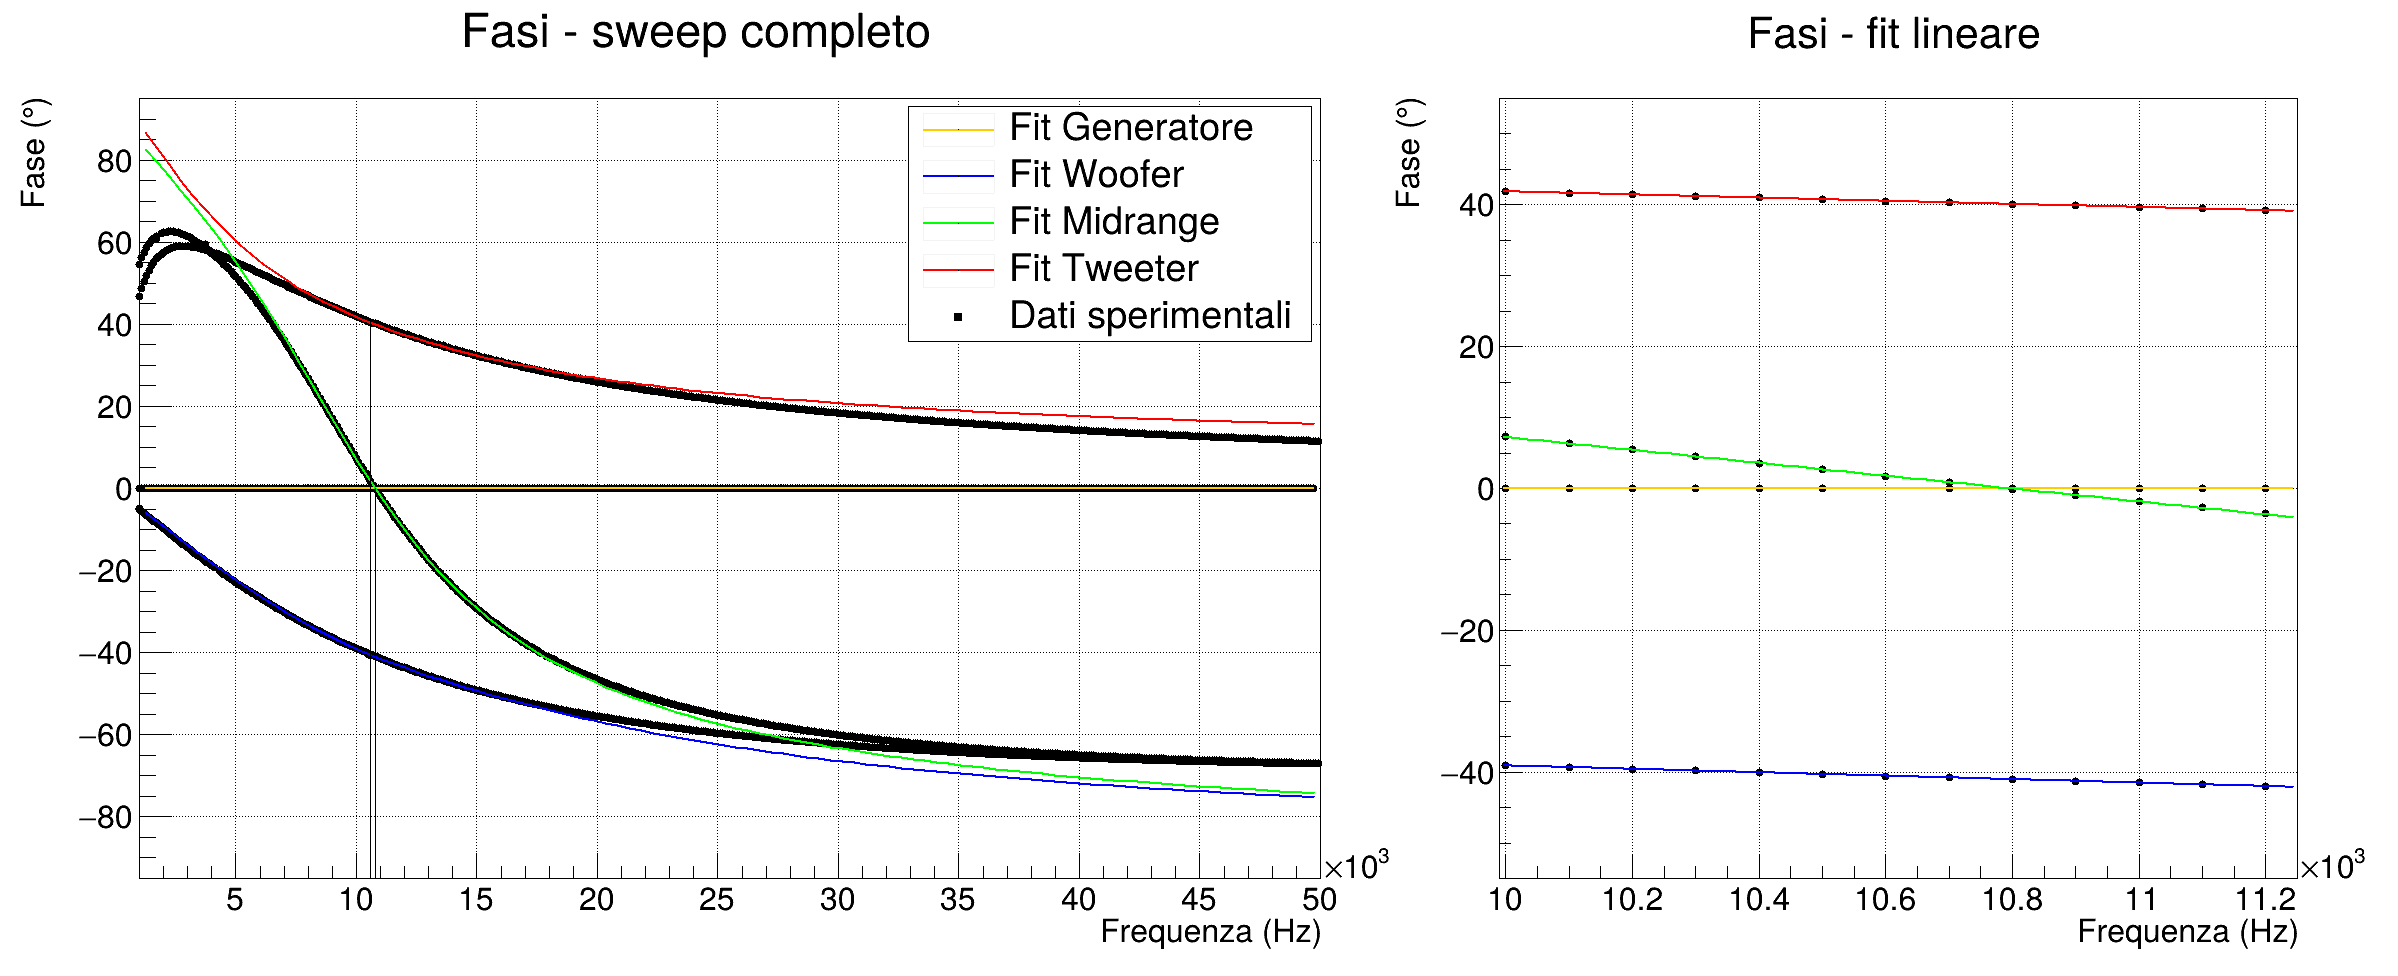
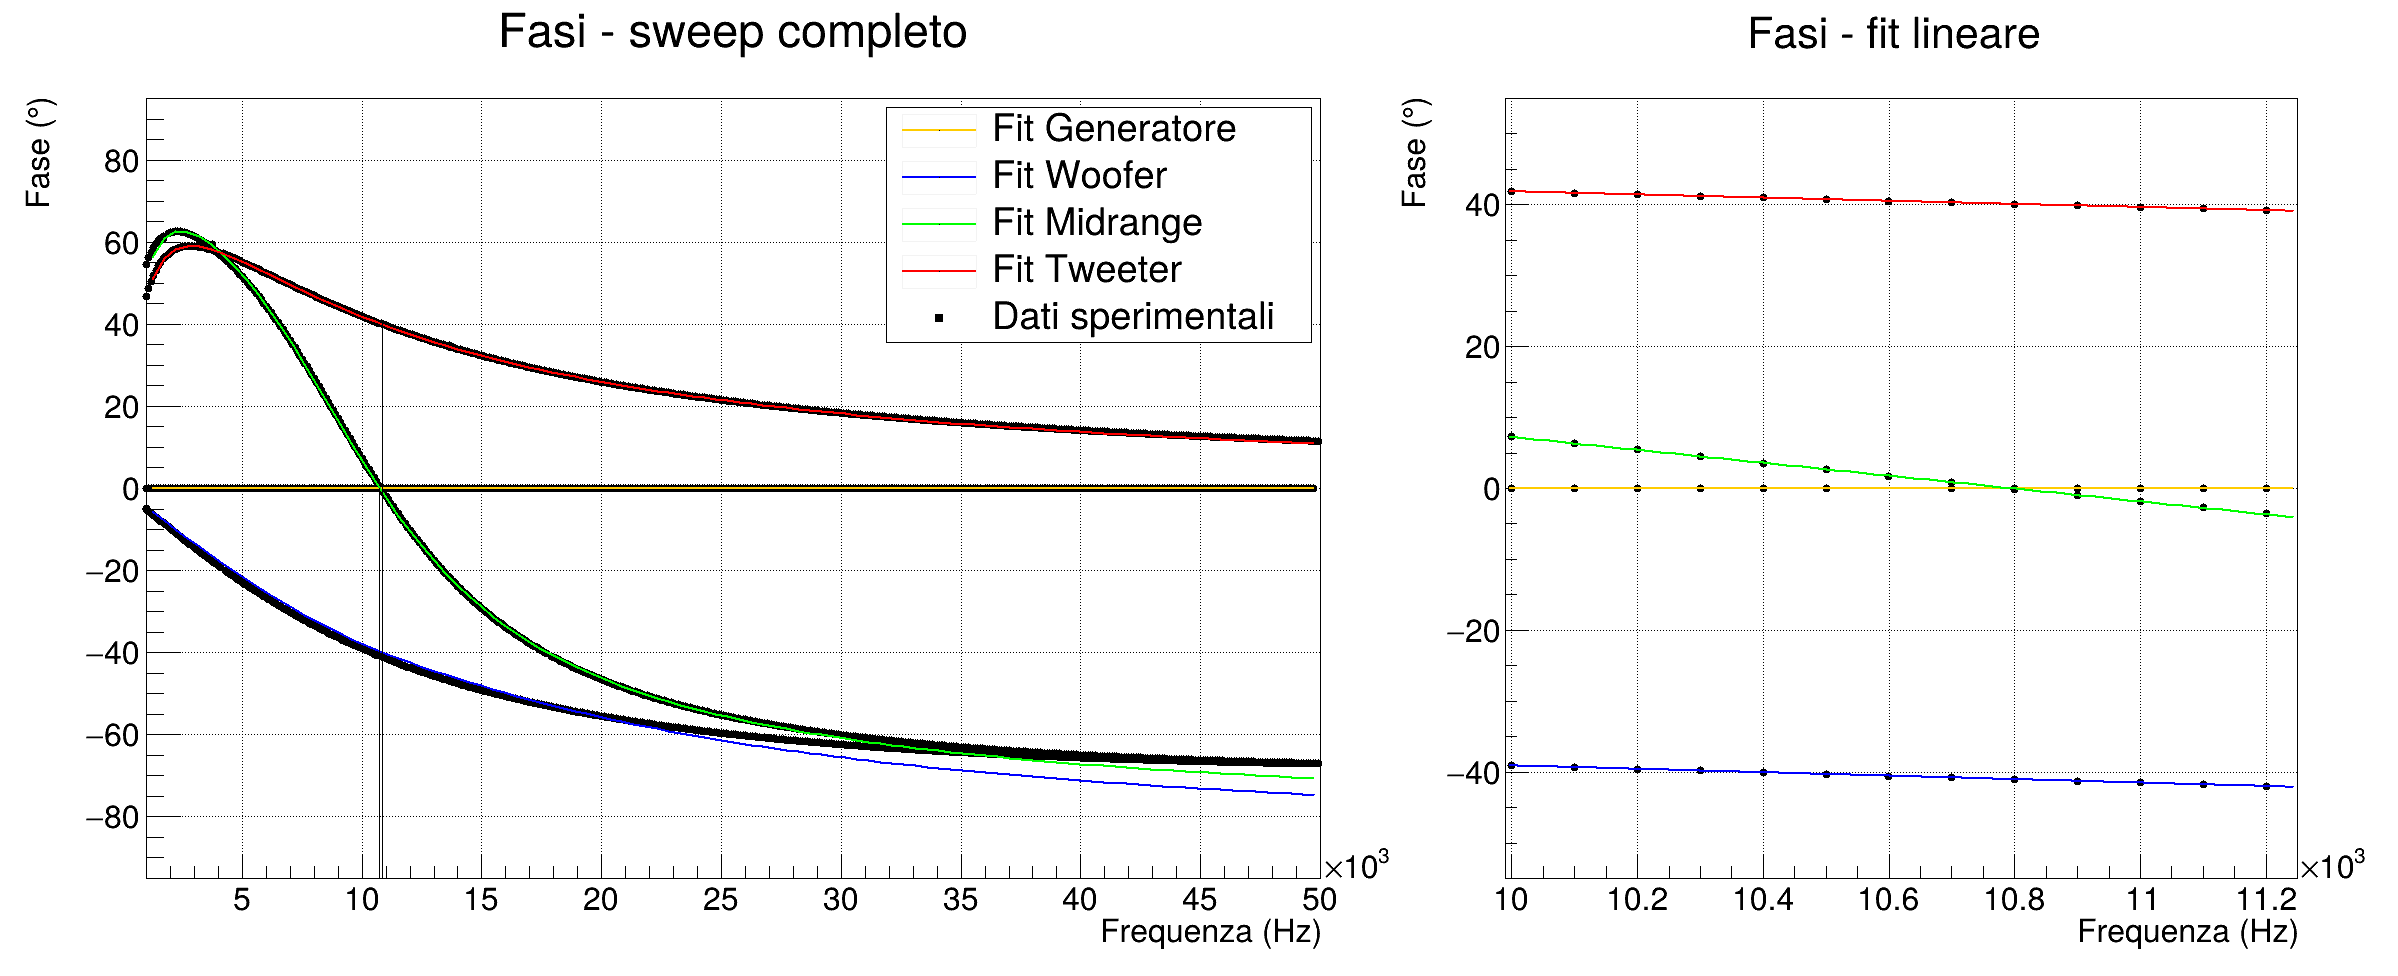
Capacitor parallel resistor for phase analysis.

diff --git a/presentazione/presentazione.tex b/presentazione/presentazione.tex
@@ -40,21 +40,21 @@
 
 \begin{frame}{Circuito e scelta dei componenti}
     \begin{columns}
-        \begin{column}{0.6\textwidth}
+        \begin{column}{0.65\textwidth}
             \centering
-            \begin{circuitikz}[scale=0.65, transform shape]
+            \begin{circuitikz}[scale=0.6, transform shape]
                 % generatore
-                \draw (8,0) --
-                (-1,0) --
-                (-1,1.5) to[sinusoidal voltage source, label=$v_0$]
-                (-1,3) to[R, l=$R_g$, color=cambridgeusred, bipoles/resistor/height=0.15, bipoles/resistor/width=0.5]
-                (-1,4) --
-                (-1,5.5) --
-                (8,5.5);
+                \draw (9.5,0) --
+                (0,0) --
+                (0,1.5) to[sinusoidal voltage source, label=$v_0$]
+                (0,3) to[R, l=$R_g$, color=cambridgeusred, bipoles/resistor/height=0.15, bipoles/resistor/width=0.5]
+                (0,4) --
+                (0,5.5) --
+                (9.5,5.5);
 
-                \draw(-1,4.5) to[short, -o]
-                (-1.6,4.5) node[left]{$v_g$};
-                \draw (-1,1) -- (-1.6,1) node[ground]{};
+                \draw(0,4.5) to[short, -o]
+                (-0.6,4.5) node[left]{$v_g$};
+                \draw (0,1) -- (-0.6,1) node[ground]{};
 
                 % woofer
                 \draw (3,5.5) --
@@ -65,20 +65,38 @@
                 \draw (3,2) to [short, -o] (3.6, 2) node[right]{$v_w$};
 
                 % mid
-                \draw (5.5,5.5) to [C=$C_m$]
-                (5.5,4.25) to [L=$L_m$]
-                (5.5,3.25) to [R, l=$R_{Lm}$, color=cambridgeusred, bipoles/resistor/height=0.15, bipoles/resistor/width=0.5]
-                (5.5,2.25) --
-                (5.5,2) to[R=$R_m$] (5.5,0);
+                \draw (6, 5.5) -- (6, 5.25);
 
-                \draw (5.5,2) to [short, -o] (6.1, 2) node[right]{$v_m$};
+                \draw (6, 5.25) -- (6.5,5.25) to [C=$C_m$] (6.5,4.25) -- (6, 4.25);
+
+                \draw (6, 5.25) --
+                (5.5, 5.25) to [R, l_=$R_{Cm}$, color=cambridgeusred, bipoles/resistor/height=0.15, bipoles/resistor/width=0.5]
+                (5.5, 4.25) --
+                (6, 4.25);
+
+                \draw(6,4.25) to [L=$L_m$]
+                (6,3) to [R, l=$R_{Lm}$, color=cambridgeusred, bipoles/resistor/height=0.15, bipoles/resistor/width=0.5]
+                (6,2) --
+                (6,2) to[R=$R_m$] (6,0);
+
+                \draw (6,2) to [short, -o] (6.6, 2) node[right]{$v_m$};
 
                 %tweeter
-                \draw (8,5.5) to[C=$C_t$]
-                (8,2) to[R=$R_t$] (8,0);
+                \draw (9.5,5.5) --
+                (9.5, 4.25);
 
-                \draw (8,2) to
-                [short, -o] (8.6, 2) node[right]{$v_t$};
+                \draw (9.5, 4.25) -- (10,4.25) to [C=$C_m$] (10,3.25) -- (9.5, 3.25);
+
+                \draw (9.5, 4.25) --
+                (9, 4.25) to [R, l_=$R_{Cm}$, color=cambridgeusred, bipoles/resistor/height=0.15, bipoles/resistor/width=0.5]
+                (9, 3.25) --
+                (9.5, 3.25);
+
+                \draw(9.5, 3.25) --
+                (9.5,2) to[R=$R_t$] (9.5,0);
+
+                \draw (9.5,2) to
+                [short, -o] (10.1, 2) node[right]{$v_t$};
             \end{circuitikz}
         \end{column}
         \begin{column}{0.2\textwidth}
@@ -101,7 +119,7 @@
     \end{itemize}
 \end{frame}
 
-\begin{frame}{Acquisizione ed elaborazione dati}
+\begin{frame}{Acquisizione dati}
     Componenti misurati con multimetro digitale di Elvis II.
 
     \bigskip
@@ -112,7 +130,18 @@
         \item Misure di tensioni in modalià RSE
     \end{itemize}
 
-    Da ciascun campione di onda sinusoidale sono stati estratti e graficati frequenza, ampiezza e fase.
+\end{frame}
+\begin{frame}{Elaborazione dati}
+    Da ciascun campione di onda sinusoidale sono stati estratti e graficati ampiezza e fase in funzione della frequenza.
+
+    \begin{itemize}
+        \item Incertezza sulla fase: deviazione standard su misure ripetute \rightarrow\ $\sigma_\phi = 0.003^\circ$
+        \item Incertezza statistica sull'ampiezza inferiore alla risoluzione strumentale
+              \rightarrow\ risoluzione della scheda: $\Delta V = 1.9$ mV
+    \end{itemize}
+
+    Le fasi sono calcolate come differenza di fase tra \texttt{A1} e \texttt{A0}.
+    Per correggere la deriva dovuta al multiplexing: fit lineare sul generatore connesso ad \texttt{A1}.
 \end{frame}
 
 \begin{frame}{Grafico ampiezza - frequenza}
@@ -128,9 +157,10 @@
 
 \begin{frame}{Grafico fase - frequenza}
     \includegraphics[width=\textwidth]{fig_fase.png}
-    Anomalia su tweeter e midrange per basse frequenze; asintoti differenti da quelli previsti sulle alte frequenze.
-
+    Difficoltà nell'ottenere un fit convergente, grande instabilità nei parametri e dipendenza dal range di fit.
     Per ottenere misure significative: fit lineare su range ristretto.
+
+    Sotto i $\sim 5$ kHz: abbassamento fase su midrange e tweeter, modellato dalla resistenza in parallelo dei condensatori.
 \end{frame}
 
 \begin{frame}{Misure attese e misure sperimentali}
@@ -157,12 +187,18 @@
 \end{frame}
 
 \begin{frame}{Conclusioni}
-    Le misure sperimentali di $f_c$, $f_r$, $Q$ risultano compatibili con i valori attesi.
-
-    Pur tenendo conto di effetti non ideali il modello non è perfetto.
     \begin{itemize}
-        \item Per le ampiezze il modello è accurato ma si può dire propriamente compatibile solo su range ristretto
-        \item Per le fasi ci sono importanti effetti sistematici sia ad alte che basse frequenze
+        \item Le misure sperimentali di $f_c$, $f_r$, $Q$ risultano compatibili con i valori attesi.
+
+        \item Pur tenendo conto di effetti non ideali il modello non è perfetto.
+              \begin{itemize}
+                  \item Per le ampiezze il modello è accurato ma si può dire propriamente compatibile solo su range ristretto
+                  \item Per le fasi ci sono importanti effetti sistematici sulle alte frequenze
+              \end{itemize}
+
+        \item L'abbassamento delle fasi a basse frequenze su tweeter e woofer può essere dovuto a correnti
+              di dispersione nei condensatori, modellate come resistenze in parallelo.
+              Dal fit $R_{Cm} \approx R_{Ct} \approx 40$ k\Omega, ma misurando con il multimetro risulta un circuito aperto.
     \end{itemize}
 \end{frame}
 
@@ -170,9 +206,9 @@
     \Large\centerline{Fine della presentazione.}
 
     \vspace{8em}
-    
+
     \small
     La relazione completa, i dati e le macro per l'analisi sono reperibili al seguente link:
-    \url{https://github.com/enro284/lab2_circuiti}
+    \url{github.com/enro284/lab2_circuiti}
 \end{frame}
 \end{document}

diff --git a/root/phase.cpp b/root/phase.cpp
@@ -158,8 +158,8 @@ Plot func_fit(const char *data_g = "data/phase_g.txt", const char *data_w = "dat
 {
     double plot_min{1E3};
     double plot_max{50E3};
-    double fit_min{8E3};
-    double fit_max{16E3};
+    double fit_min{1E3};
+    double fit_max{30E3};
 
     //
     // Baseline
@@ -228,28 +228,29 @@ Plot func_fit(const char *data_g = "data/phase_g.txt", const char *data_w = "dat
     auto func_g = new TF1("Fase Generatore", "[0]", fit_min, fit_max);
     func_g->SetNameTitle("Fit Generatore", "Fit Generatore");
 
-    auto func_w = new TF1("Fase Woofer", p_w, fit_min, fit_max, 6);
+    auto func_w = new TF1("Fase Woofer", p_w, fit_min, fit_max, 7);
     func_w->SetNameTitle("Fit Woofer", "Fit Woofer");
-    func_w->SetParameters(3.3E3, 120, 50, 47E-3, 4.7E-9, 0);
+    func_w->SetParameters(3.3E3, 120, 50, 47E-3, 4.7E-9, 0, 4E4);
     func_w->SetParLimits(0, 2E3, 4E3);
     func_w->SetParLimits(1, 50, 200);
     func_w->SetParLimits(2, 30, 70);
     func_w->SetParLimits(3, 0.02, 0.06);
     func_w->SetParLimits(4, 3E-9, 7E-9);
+    func_w->FixParameter(6, 4E4);
 
-    auto func_m = new TF1("Fase Mid", p_m, fit_min, fit_max, 6);
+    auto func_m = new TF1("Fase Mid", p_m, fit_min, fit_max, 7);
     func_m->SetNameTitle("Fit Midrange", "Fit Midrange");
 
-    func_m->SetParameters(3.3E3, 120, 50, 47E-3, 4.7E-9, 0);
+    func_m->SetParameters(3.3E3, 120, 50, 47E-3, 4.7E-9, 0, 4E4);
     func_m->SetParLimits(0, 2E3, 4E3);
     func_m->SetParLimits(1, 50, 200);
     func_m->SetParLimits(2, 30, 70);
     func_m->SetParLimits(3, 0.02, 0.06);
     func_m->SetParLimits(4, 3E-9, 7E-9);
 
-    auto func_t = new TF1("Fase Tweeter", p_t, fit_min, fit_max, 6);
+    auto func_t = new TF1("Fase Tweeter", p_t, fit_min, fit_max, 7);
     func_t->SetNameTitle("Fit Tweeter", "Fit Tweeter");
-    func_t->SetParameters(3.3E3, 120, 50, 47E-3, 4.7E-9, 0);
+    func_t->SetParameters(3.3E3, 120, 50, 47E-3, 4.7E-9, 0, 4E4);
     func_t->SetParLimits(0, 2E3, 4E3);
     func_t->SetParLimits(1, 50, 200);
     func_t->SetParLimits(2, 30, 70);

diff --git a/root/formule3.cpp b/root/formule3.cpp
@@ -123,10 +123,11 @@ double p_w(double *f, double *par)
     TComplex Z_gen{par[2], 0.};
     TComplex Z_L{0, W * par[3]};
     TComplex Z_C{0, -1 / (W * par[4])};
+    TComplex Z_RC{par[6], 0};
 
     TComplex Z_W = Z_R + Z_L + Z_RL;
-    TComplex Z_M = Z_R + Z_L + Z_C + Z_RL;
-    TComplex Z_T = Z_R + Z_C;
+    TComplex Z_M = Z_R + Z_L + 1. / (1. / Z_C + 1. / Z_RC) + Z_RL;
+    TComplex Z_T = Z_R + 1. / (1. / Z_C + 1. / Z_RC);
 
     TComplex Z_load = 1. / (1. / Z_W + 1. / Z_M + 1. / Z_T);
 
@@ -146,10 +147,11 @@ double p_m(double *f, double *par)
     TComplex Z_gen{par[2], 0.};
     TComplex Z_L{0, W * par[3]};
     TComplex Z_C{0, -1 / (W * par[4])};
+    TComplex Z_RC{par[6], 0};
 
     TComplex Z_W = Z_R + Z_L + Z_RL;
-    TComplex Z_M = Z_R + Z_L + Z_C + Z_RL;
-    TComplex Z_T = Z_R + Z_C;
+    TComplex Z_M = Z_R + Z_L + 1. / (1. / Z_C + 1. / Z_RC) + Z_RL;
+    TComplex Z_T = Z_R + 1. / (1. / Z_C + 1. / Z_RC);
 
     TComplex Z_load = 1. / (1. / Z_W + 1. / Z_M + 1. / Z_T);
 
@@ -167,10 +169,11 @@ double p_t(double *f, double *par)
     TComplex Z_gen{par[2], 0.};
     TComplex Z_L{0, W * par[3]};
     TComplex Z_C{0, -1 / (W * par[4])};
+    TComplex Z_RC{par[6], 0};
 
     TComplex Z_W = Z_R + Z_L + Z_RL;
-    TComplex Z_M = Z_R + Z_L + Z_C + Z_RL;
-    TComplex Z_T = Z_R + Z_C;
+    TComplex Z_M = Z_R + Z_L + 1. / (1. / Z_C + 1. / Z_RC) + Z_RL;
+    TComplex Z_T = Z_R + 1. / (1. / Z_C + 1. / Z_RC);
 
     TComplex Z_load = 1. / (1. / Z_W + 1. / Z_M + 1. / Z_T);
 

diff --git a/root/demo_fase_RC.cpp b/root/demo_fase_RC.cpp
@@ -1,0 +1,33 @@
+#include "TComplex.h"
+#include "TF1.h"
+#include "TCanvas.h"
+#include <iostream>
+
+Double_t phase(Double_t *f, Double_t *par)
+{
+    Double_t w{*f * 2 * TMath::Pi()};
+    TComplex r{3300, 0};
+    TComplex c{0, -1 / (w * 4.7E-9)};
+    TComplex r_c{par[0], 0};
+
+    TComplex z = 1. / (1. / r_c + 1. / c) + r;
+
+    return -z.Theta() * 180. / TMath::Pi();
+}
+
+void prova()
+{
+    auto c = new TCanvas("c", "name", 1000, 500);
+    c->Divide(2, 1);
+
+    auto f = new TF1("phase", phase, 1000, 50E3, 1);
+    auto f1 = new TF1("phase1", phase, 1000, 50E3, 1);
+    
+    c->cd(1);
+    f->SetParameter(0, 10E20);
+    f->Draw();
+    
+    c->cd(2);
+    f1->SetParameter(0, 4E4);
+    f1->Draw();
+}
